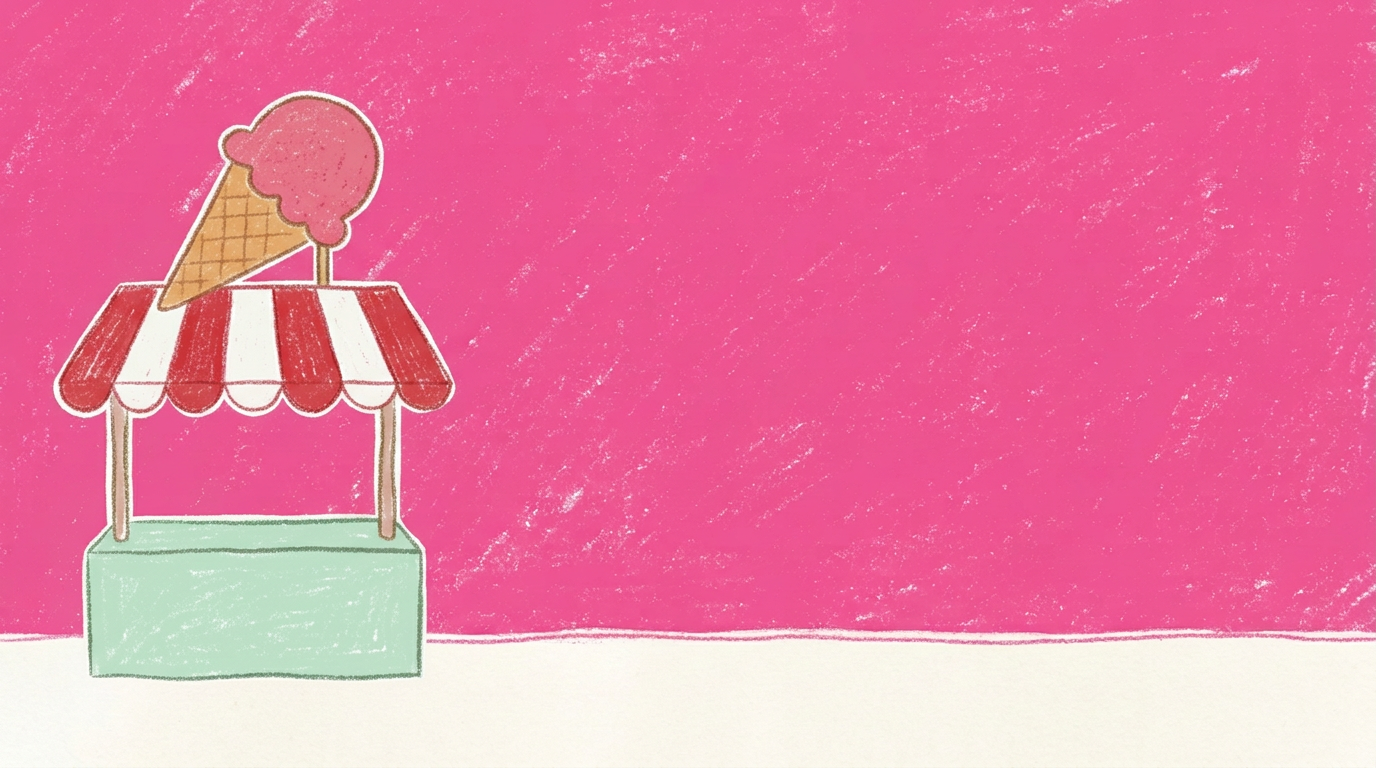
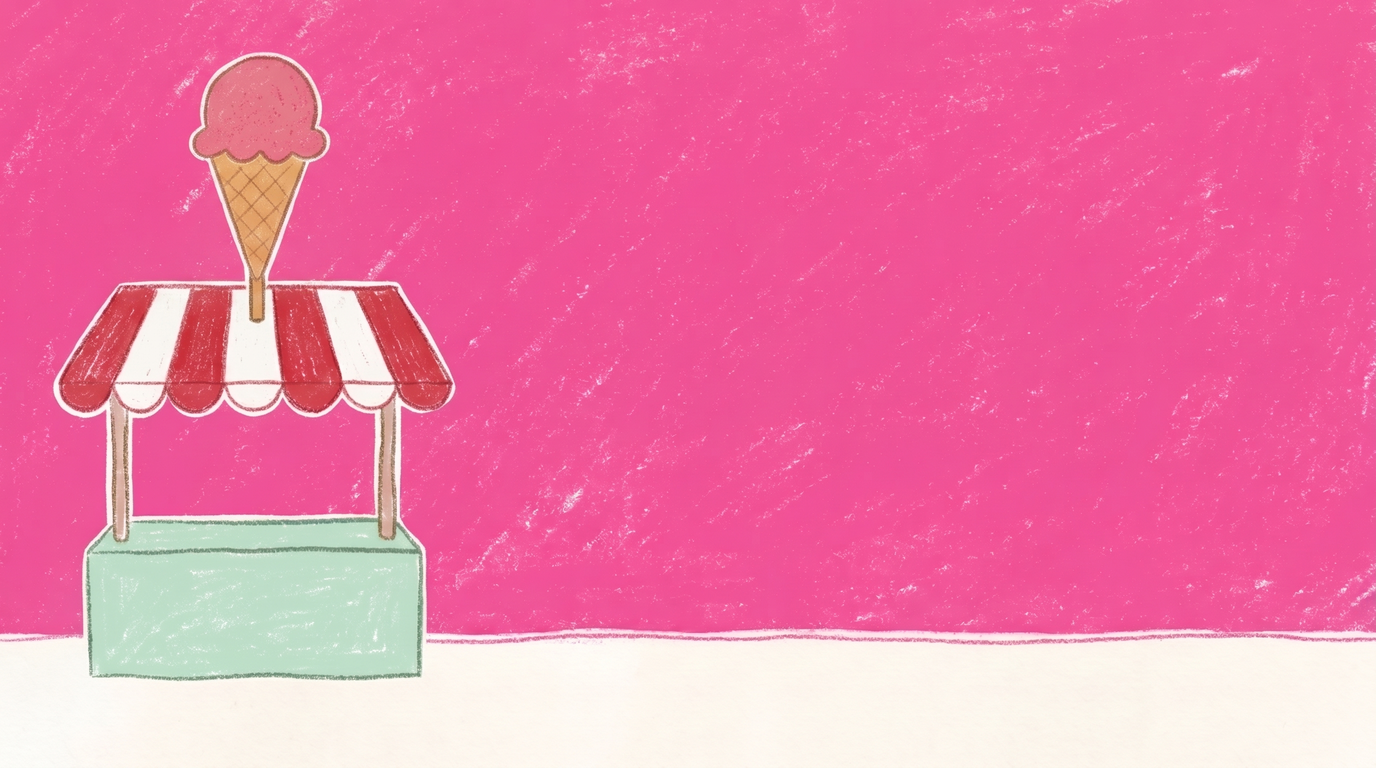
Avsnitt 005: glasskiosken med rak strut, en Mille vid kiosken, större hjärtan i discot, avgaspuffar på vägen
- Ny målning av glasskiosken (Google Flow): struten står rak på en kort stång mitt på markisen, allt annat lika; originalet sparat som glasskiosken-snett-original.png, lagren omgjorda
- Kiosken: musen byter från bilen till egna ben på en bildruta (aldrig två Mille), avgaspuffar när bilen kör in
- Discot: hjärtan på "favoritfärg" 2,5 gånger refrängens storlek, puffar när bilen kommer
- Vägen 1: mjukare gupp, puffar varannat slag, bilen tonas ut under kritsvepet
- Introt: ordet krymper som en enhet; ljudmixen +1,3 dB med limiter (−14 LUFS)
- format/regler.md och CLAUDE.md: molnövergången och kritirisen; rosa-bilen.md: avgasröret och puffarna
- Avsnitt 004: ändringar i korscen-1 och sammansättningen

diff --git a/avsnitt/004-bussen-badar/scener/korscen-1/index.html b/avsnitt/004-bussen-badar/scener/korscen-1/index.html
@@ -29,8 +29,8 @@ const { BUSS, PLATS } = kor;
 // traktorn och åkern långt bort, högre upp på ängen än bussens tak, så att den aldrig kör in bakom bussen
 // början: kritans zoom landar på den tomma vägen (vägen står stilla på VAG0, samma i kritan-ritar). Bussen rullar in från vänster
 // och stannar i mitten med en studs, rakt klipp till närbild på ansiktet (tittar på oss, tut, tut, blinkar med ena ögat),
-// rakt klipp tillbaka, och bussen kör iväg på "Solen skiner". Satt-ihop.sh klipper bort takterna mellan närbilden och helbilden
-// (scentid 5,97–10,80, två takter som upprepas i mellanspelet, Sanna 2026-11-04: "intro is a bit long").
+// rakt klipp tillbaka, bussen dansar på stället i två takter (DANS_*) och kör iväg på "Solen skiner".
+// (Takterna var bortklippta i satt-ihop.sh, men då hackade musiken; nu fyller dansen dem, Sanna 2026-11-05.)
 const IN_X = -620, NARBILD = [1210, 760, 3];   // NARBILD för 003:s bussstorlek (kor.narbild)
 // björnen Bulle (statist) på bortre vägkanten i vers 1: glider in med vägen, vinkar på "vi ska åka och bada!", bussen tutar tillbaka
 const BJORN = { x: 1570, y: 825, h: 270 };      // x när bussen tutar (en bit framför nosen, fritt från tutstrecken)
@@ -56,7 +56,10 @@ async function tider() {
   return { ...kor.stoppTider(M, 0, S), sang, DURATION: sang[1] - sang[0],
     VERS: S(vers), IN: [b(0), b(3)], NARA0: [b(4), b(9)],             // rullar in, närbild till klippet (b(9) = scentid 5,97)
     TITTA: b(4) + 0.1, TUT0: [b(6), b(7)],                             // tittar på oss, blinkar, "tut, tut", blinkar igen
-    VINK: [b(8)],                                                     // blinkar med främre ögat åt oss en gång i närbilden, efter tutet (bara här, sparsamt)
+    // de två takterna efter närbilden (förut bortklippta, nu med musiken kvar, Sanna 2026-11-05): bussen dansar på stället,
+    // fyra hopp i första takten och gungar från sida till sida i den andra, solen dansar med
+    DANS_HOPP: [b(10), b(11), b(12), b(13)], DANS_GUNG: [b(14), b(17)],
+    VINK: [b(8)],                                                    // blinkar med främre ögat åt oss en gång i närbilden, efter tutet (bara här, sparsamt)
     BJORN_VINK: [b(26), b(27)], TUT_BJORN: b(27),                    // "vi ska åka och bada!": två vink, bussen tutar tillbaka på det andra
                                                                       // (vägen går fort: björnen hinner bara en halv bild innan han är vid nosen)
     FIA: [S(vers) + 9.4, S(vers) + 14.6],                             // fjärilen följer med bussen en stund i vers 1, när björnen glidit ut
@@ -127,9 +130,15 @@ async function bygg() {
 // början: bussen rullar in och saktar in till mitten (hjulen snurrar med), studsar till när den stannar, lutar bakåt när den kör iväg
 function korIn(t) {
   if (t >= T.VERS + 1.2) return null;
-  const u = del(...T.IN, t), x = lerp(IN_X, BUSS.x, 1 - (1 - u) ** 2), h = hopp(t, T.IN[1], T.IN[1] + 0.25, 10, 0.06, 0.14);
-  return { x, dist: t < T.VERS ? d(0) + x - BUSS.x : d(t), f: t < T.VERS ? 2 * (1 - u) * (u > 0) : v(t) / kor.V, lyft: -h.y, sx: h.sx, sy: h.sy,
-    tilt: kit.bussStopp(t, T.IN[1] + 0.2) + kit.bussStart(t, T.VERS),
+  const u = del(...T.IN, t), x = lerp(IN_X, BUSS.x, 1 - (1 - u) ** 2);
+  let lyft = 0, sx = 1, sy = 1;
+  for (const [a, h0] of [[T.IN[1], 10], ...T.DANS_HOPP.map(p => [p, 18])]) {
+    const h = hopp(t, a, a + 0.3, h0, 0.06, 0.14); lyft += h.y; sx *= h.sx; sy *= h.sy;
+  }
+  const [g0, g1] = T.DANS_GUNG, gung = 5 * Math.sin(Math.PI * (t - g0) / BEAT) * mjuk(del(g0 - 0.2, g0 + 0.2, t)) * mjuk(del(g1, g1 - 0.3, t));
+  return { x, dist: t < T.VERS ? d(0) + x - BUSS.x : d(t), f: t < T.VERS ? 2 * (1 - u) * (u > 0) : v(t) / kor.V, lyft: -lyft, sx, sy,
+    ogon: T.DANS_HOPP.some(p => t > p - 0.05 && t < p + 0.35) ? 'happy' : null,
+    tilt: kit.bussStopp(t, T.IN[1] + 0.2) + kit.bussStart(t, T.VERS) + (t > g0 - 0.2 && t < g1 ? gung : 0),
     titt: lerp(0.8, -0.2, mjuk(del(T.TITTA, T.TITTA + 0.3, t)) * (1 - mjuk(del(T.NARA0[1] - 0.5, T.NARA0[1] - 0.2, t)))) };
 }
 
@@ -202,7 +211,8 @@ function rendBulle(t, dist) {
 function render(t) {
   const dist = d(t), f = Math.min(1, v(t) / kor.V);
   vag.rulla(dist);
-  kor.solDans(t + T.sang[0], mjuk(del(0, 2, t)));   // solen dansar i sångtid; stilla i första rutan (klippet från kritan-ritar)
+  // solen dansar i sångtid; stilla i första rutan (klippet från kritan-ritar), som i kritan-ritar medan bussen dansar
+  kor.solDans(t + T.sang[0], mjuk(del(0, 2, t)) * (1 + 1.5 * mjuk(del(T.DANS_HOPP[0] - 0.5, T.DANS_HOPP[0], t)) * mjuk(del(T.VERS + 0.5, T.VERS, t))));
   trad.pa(1500 + d(T.TRAD) - dist);
   kant.forEach(k => k.s.pa(1500 + d(k.tid) - dist));
   const g = guppa(t, dist);

diff --git a/avsnitt/005-rosa-bilen/scener/kiosken/index.html b/avsnitt/005-rosa-bilen/scener/kiosken/index.html
@@ -49,6 +49,7 @@ const HOPP_11D = [1.0, 1.2, 1.4].map(x => d0 + x);             // glassarna hopp
 const TAR = c0 + 1.0;                                          // musen tar glassen (pling); tassarna möts en halv sekund före
 // Musen kliver ur bilen när den stannat (Sanna: "runt 2:01") och hoppar in igen på andra "hurra", så att discot börjar med henne i bilen
 const UT = { stopp: 1.5, upp: 1.95, ner: 2.65 }, HEM = { upp: DURATION - 0.95, ner: DURATION - 0.35 };
+const PUFF = [K['10'][0] + 0.25, UT.stopp - 0.15];             // avgaspuffar medan bilen kör in: på brum och när den stannar (två slag isär)
 const SATE = [TOM_X + (523 - 512.5) * BIL_S + (533.5 - 512) * MUS_H / 820, GK + (545 - 850) * BIL_S];   // musens fötter i bilen (hennes (512, 926) på bilens (523, 545))
 const CAM_SLUT = [700, 470, 1.2];                              // kameran drar sig ut så att bilen syns när hon hoppar in
 
@@ -194,8 +195,9 @@ function render(t) {
   glassar.forEach(g => g.s.set(g.x, STRUT_Y, STRUT_H, g.rot, ['11d', '11e'].includes(s)));
   fri.set(0, 0, 1, 0, false); fallKula.set(0, 0, 1, 0, false); gKula.forEach(g => g.set(0, 0, 1, 0, false));
   klick.set(0, 0, 1, 0, false); egenGlass(null, [0, 0]); armFram.style.display = 'none';
-  // musen: i bilen före UT och efter HEM, på egna ben däremellan (bilen.musen, som i refrang.glassberg); bytet tonas över på 0,12 s
-  const ute = mjuk(del(UT.upp - 0.04, UT.upp + 0.08, t)) * (1 - mjuk(del(HEM.ner - 0.08, HEM.ner + 0.04, t)));
+  // musen: i bilen före UT och efter HEM, på egna ben däremellan (bilen.musen, som i refrang.glassberg); bytet sker på en bildruta
+  // där båda står likadant (samma plats, armarna uppe, inget huk), aldrig två möss eller genomskinliga
+  const ute = t >= UT.upp && t < HEM.ner ? 1 : 0;
   const bilX = lerp(-330, TOM_X, 1 - Math.pow(1 - del(K['10'][0] + 0.2, UT.stopp, t), 1.6));
   tom.pose({ x: TOM_X, y: GK, h: BIL_H, vit: true, synlig: ute > 0 });
   mus.pose({ synlig: false }); skugga.style.display = 'none'; framMus.setAttribute('opacity', ute);
@@ -212,7 +214,7 @@ function render(t) {
     const bob = t < stopp ? kit.bussMotor(t) * 3 : 0;
     // musen släpper ratten och sträcker upp armarna, hukar, och hoppar ur (boing) och landar vid disken (duns)
     const armar = mjuk(del(stopp + 0.1, stopp + 0.3, t)), huk = Math.sin(Math.PI * del(stopp + 0.2, UT.upp, t));
-    bp = { y: GK + bob, tilt, dist: bilX + 330, humor: armar > 0 ? 'skrattar' : 'glad', m: 0.5, titt: 1, blink: kit.blink(t, [a0 + 1.1]),
+    bp = { y: GK + bob, tilt, dist: bilX + 330, humor: armar > 0 ? 'skrattar' : 'glad', m: 0.6, titt: 1, blink: kit.blink(t, [a0 + 1.1]),
       ...(armar > 0 ? { arm_r: lerp(40, 120, armar), arm_l: lerp(40, 120, armar), lyft: 14 * huk } : {}) };
     if (t >= UT.upp - 0.04) {
       const h = hoppa(t, SATE, [MUS_DISK_X, KIOSK_FOT], UT.upp, UT.ner);
@@ -380,7 +382,7 @@ function render(t) {
         mx = h.x; my = h.y;
         mp = { ...mp, sx: 1, sy: 1, dy: 0, ben: [25 * h.luft, 25 * h.luft] };
       }
-      bp = { humor: 'skrattar', m: 0.8, titt: 0.6, tittY: -0.4, arm_r: 145, arm_l: 145, lyft: 14 * Math.sin(Math.PI * del(HEM.ner - 0.05, HEM.ner + 0.3, t)) };
+      bp = { humor: 'skrattar', m: 0.8, titt: 0.6, tittY: -0.4, arm_r: 145, arm_l: 145, lyft: 14 * Math.sin(Math.PI * del(HEM.ner, HEM.ner + 0.35, t)) };
       const kq = kit.inUt(del(HEM.upp - 0.3, HEM.ner, t));
       kit.kamera(...TVA.map((v, i) => lerp(v, CAM_SLUT[i], kq)));
     }
@@ -396,7 +398,8 @@ function render(t) {
   }
   const vidBilen = mx < lerp(SATE[0], MUS_DISK_X, 0.3);
   for (const e of [mus.g, framMus]) L.figurer.insertBefore(e, vidBilen ? tom.g : fallKula.g);
-  if (ute < 1) bil.pose({ x: bilX, y: GK, h: BIL_H, opacity: 1 - ute, humor: 'glad', ...bp });
+  if (ute < 1) { bil.pose({ x: bilX, y: GK, h: BIL_H, opacity: 1 - ute, humor: 'glad', ...bp }); bil.puffa(t, PUFF); }
+  if (ute > 0) tom.puffa(t, PUFF);   // puffarna blir kvar när den tomma bilen tar över
   klippStrut(mus);
 }
 // ett hopp från [x0, y0] till [x1, y1] mellan upp och ner (fötterna), med landning (squash) efter ner

diff --git a/avsnitt/005-rosa-bilen/scener/discot/index.html b/avsnitt/005-rosa-bilen/scener/discot/index.html
@@ -521,12 +521,28 @@ kit.ljud('pop', START['15e'] + 0.35, { vol: 0.7 });            // flaggan: plopp
 kit.ljud('plopp', START['15e'] + 0.35);
 kit.ljud('jubel', START['15e'] + 0.4, { vol: 0.7, langd: START['16'] - START['15e'] - 0.3 });
 kit.ljud('brum', KOR - 0.1, { vol: 0.7 });
+const PUFF = [KOR, ...slagI(KOR + 2 * BEAT, STANNA).filter((_, i) => i % 2 === 0), STANNA];   // avgaspuffar: på brum, varannat slag medan den rullar, och när den stannar
 TUT.forEach(t => kit.ljud('tuta-tut', t, { vol: 0.8, langd: 0.5 }));
 kit.ljud('swoosh', START['17'], { vol: 0.4 });   // irisen sluter sig; inget ljud när den stängs
 
 // V:et: alla fem gör samma rörelse per rad, sångens (sang.md), så att barnet kan härma en; 14m byter mitt i, på slaget, när "Rosa dans!" upprepas
 const DANS = Object.fromEntries([['14l', 'upp'], ['14m', 'hjarta'], ['14m2', 'sida'], ['15d', 'hjarta']].map(([rad, r]) =>
   [rad, Object.fromEntries(['musen-mille', 'grodan-gurra', 'kaninen-kanel', 'humlan-humle', 'dinon-disa'].map(n => [n, r]))]));
+// små hjärtan som i refrängen (refrang.js rad b): på "favoritfärg" (14m) stiger tio upp ur gruppen, två över varje figur,
+// ett var 0,38 s från mitten och utåt, växelvis åt vänster och höger; 2,5 gånger refrängens storlek (gruppbilden är vid),
+// stiger 150–200 px på 1,6 s så att de kommer över huvudena, vajar och tonar bort
+const HJARTA_ORD = ['musen-mille', 'kaninen-kanel', 'grodan-gurra', 'humlan-humle', 'dinon-disa'];
+const hjartan = Array.from({ length: 10 }, () => { const g = el('g', { ...KRITA_FIN, style: 'display:none' }, L.figurer);
+  el('path', { d: 'M0 42 C -60 0 -62 -42 -32 -48 C -12 -52 0 -36 0 -26 C 0 -36 12 -52 32 -48 C 62 -42 60 0 0 42z', fill: '#F06EAA', stroke: '#fff', 'stroke-width': 9 }, g); return g; });
+function hjartRegn(t) {
+  hjartan.forEach((h, i) => {
+    const [x, vh, vf] = V[HJARTA_ORD[i % 5]], a = START['14m'] + 0.1 + i * 0.38, u = del(a, a + 1.6, t);
+    h.style.display = u > 0 && u < 1 ? '' : 'none';
+    if (u <= 0 || u >= 1) return;
+    const sida = i % 2 ? 1 : -1, sc = 0.75 * mjuk(u * 5) * (1 - mjuk(del(0.7, 1, u))), ut = 20 + 25 * ((i * 5) % 3);
+    h.setAttribute('transform', `translate(${x + sida * ut * Math.sqrt(u) + 12 * Math.sin(u * 6 + i * 2)} ${(vf - 0.92 * vh) * H - (150 + 25 * (i % 3)) * u}) rotate(${sida * 12 * Math.sin(u * 5)}) scale(${sc})`);
+  });
+}
 const MITT = slag((START['14m'] + START['15a']) / 2) + (Math.floor(fas(slag((START['14m'] + START['15a']) / 2))) % 2 ? BEAT : 0);   // på ett jämnt slag
 
 // ---------- kritsvepen (formatet: inga raka klipp) ----------
@@ -648,7 +664,9 @@ function render(t) {
     const u = t >= STANNA ? slag_upp(t - STANNA, 0) : { sx: 1, sy: 1 };   // trycks ihop när den stannar, som en dekal som slås upp
     bil.pose({ x, y: BIL.g + 2.5 * tut.lyft + (kq > 0 && kq < 1 ? kit.bussMotor(t) * 2 : 0), h: BIL.h, sx: (1 + 2 * (tut.sx - 1)) * u.sx, sy: (1 + 2 * (tut.sy - 1)) * u.sy, tilt: luta, dist: x - BIL.x, vit: false,
       humor: tut.ogon ? 'skrattar' : 'glad', m: tut.mun, arm_r: vink, arm_l: 'kant', blink: blinkar(t, 0.5) });
+    bil.puffa(t, PUFF);
   }
+  hjartRegn(t);
   svep(t);
 
   // 17: kritirisen som i Lilla Kvack: en vinglig cirkel med nio bucklor som vrider sig sakta, runt musens ansikte; svart utanför,

diff --git a/avsnitt/005-rosa-bilen/intro/index.html b/avsnitt/005-rosa-bilen/intro/index.html
@@ -283,10 +283,12 @@ function render(t) {
   satt($('tejp'), [0, -331], pop(del([T.tejp, T.tejp + 0.35], t)) * ut(0.6), -6 * (1 - del([T.tejp, T.tejp + 0.35], t)));
 
   // bokstäverna poppar fast som klistermärken, en per sextondel; vrids och skalas runt mitten på x-höjden
+  // utgången: hela ordet krymper ihop mot sin mitt (inte varje bokstav för sig, då gled de isär en bild)
+  const k = ut(0.4);   // ordets mitt är x = 0 i #ordmarke; i bokstavens egen ruta ligger den på -b.x
   for (const b of bokst) {
-    const p = klister(t - b.t0, 1.15, b.vrid), [mx, my] = b.mitt, k = ut(0.4);
-    b.pop.style.display = t > b.t0 ? '' : 'none';
-    b.pop.setAttribute('transform', `translate(${mx} ${(my + p.dy).toFixed(2)}) rotate(${p.rot.toFixed(2)}) scale(${(p.s * p.sx * k).toFixed(4)} ${(p.s * p.sy * k).toFixed(4)}) translate(${-mx} ${-my})`);
+    const p = klister(t - b.t0, 1.15, b.vrid), [mx, my] = b.mitt;
+    b.pop.style.display = t > b.t0 && k > 0.001 ? '' : 'none';
+    b.pop.setAttribute('transform', `translate(${-b.x} -60) scale(${k.toFixed(4)}) translate(${b.x} 60) translate(${mx} ${(my + p.dy).toFixed(2)}) rotate(${p.rot.toFixed(2)}) scale(${(p.s * p.sx).toFixed(4)} ${(p.s * p.sy).toFixed(4)}) translate(${-mx} ${-my})`);
   }
   // titelraderna: samma pop men lugnare (mindre översväng), efter ordmärket
   for (const c of AVSNITT) poppa(c.inre, t - c.start, c.mitt, 1.07);

diff --git a/avsnitt/005-rosa-bilen/scener/vagen-1/index.html b/avsnitt/005-rosa-bilen/scener/vagen-1/index.html
@@ -67,7 +67,7 @@ async function bygg() {
   nara = el('g', {}, saker);   // framför vägkanten
   const nb = kit.vagsak(B_, nara, NARA_BUSKE.y, NARA_BUSKE.h);
   kant.push({ tid: T.NARA + (BIL_X + 450 - W) / V, s: nb });
-  kit.lager.overst.setAttribute('transform', 'scale(0.8)');   // kritsvep.js ritar i 1920 × 1080; lite större än W / 1920, annars når klottret inte högerkanten
+  kit.lager.overst.setAttribute('transform', 'translate(-130 -90) scale(0.95)');   // kritsvep.js ritar i 1920 × 1080; större än W / 1920 och centrerad, så att strecken vänder utanför bilden (annars skymtar hjulen i gliporna)
   bil = bilen.ny(L.figurer, { kontur: true });
   fia = await kit.figur('fjarilen-fia', { h: 100 });
   r = await refrang.ny(M, '05', S);
@@ -176,7 +176,8 @@ function render(t) {
   } else if (t < T.K) {   // 03b: tassen på ratten, tittar framåt, lutar huvudet i takt och blinkar
     mus = blunda(t, { humor: 'glad', titt: mjuk(del(T.B + 0.2, T.B + 0.5, t)) * 0.9, rot: 4 * Math.sin(Math.PI * (t - T.B) / BEAT) * mjuk(del(T.B, T.B + 0.4, t)) });
   } else mus = musKor(t, fiaXY);
-  bil.pose(korPose(t, mus));
+  // under kritsvepet tonas bilen bort, så att gliporna mellan strecken visar ljus väg och gräs, inte svarta hjul (smulor)
+  bil.pose({ ...korPose(t, mus), opacity: 1 - mjuk(del(T.SVEP[0] + 0.15, T.R - 0.3, t)) });
   bil.puffa(t, T.PUFF);
 
   kit.kamera(...kam(t));

diff --git a/avsnitt/005-rosa-bilen/scener/kiosken/README.md b/avsnitt/005-rosa-bilen/scener/kiosken/README.md
@@ -46,10 +46,10 @@ Replikerna i luckan ("Hej, grodan!", "Kväk! Vilken glass vill du ha?", "Rosa, t
 - 10 och 11 är en enda bild, utan kritsvep (bild 10 är bara 0,6 s); molnen över skarven lägger `film/satt-ihop.sh`.
 
 ## Efter granskning 2 (2026-11-05)
-- **Musen kliver ur bilen** när den stannat (1,95 s, Sannas "runt 2:01") och står vid disken hela luckan. Hon får glassen där, och hoppar in i bilen igen på andra "hurra", så att discot börjar med henne i bilen. Hon är `bilen.musen` (samma mus på egna ben som i `refrang.glassberg`), och bytet mot musen i bilen tonas över på 0,12 s åt båda hållen. Bilen stannar vid `TOM_X`, så att hjulet inte hamnar under hennes fötter.
+- **Musen kliver ur bilen** när den stannat (1,95 s, Sannas "runt 2:01") och står vid disken hela luckan. Hon får glassen där, och hoppar in i bilen igen på andra "hurra", så att discot börjar med henne i bilen. Hon är `bilen.musen` (samma mus på egna ben som i `refrang.glassberg`), och bytet mot musen i bilen sker på en bildruta där båda står likadant (ingen övertoning, aldrig två möss). Bilen stannar vid `TOM_X`, så att hjulet inte hamnar under hennes fötter.
 - Grodan vinkar (och sträcker på sig) när bilen kör in. 11a slutar i tvåbilden i stället för helbilden.
 - 11b står 0,5 s längre, och klippet till grodans närbild kommer senare.
 - Små ljud i luckan, där replikerna saknar röst: pop när glassarna hoppar, ding när den rosa hoppar, kvak, och kiosk-pling när grodan lutar sig ut.
 - Kulan syns falla i 0,55 s, och plupp landar på smällen (plupp-tagningarna börjar med 0,6–1,6 s tystnad).
-- Den stora struten på taket står still. Den lutar för att den är ritad så i `kiosk-ra.png`, och kulan är avskuren av bildkanten tills kameran glider upp. Att räta upp den kräver en ny platta.
+- Den stora struten på taket står nu rakt (ny målning av `glasskiosken.png`, plattorna gjorda om med `gor-lager.py`); `kiosk-topp` passar mot markisen i 11a.
 - Inga rörelse- eller ljudstreck (Sanna, 2026-11-05: de små strecken gjorde inget för bilden). Kulan som faller är kvar.

diff --git a/format/regler.md b/format/regler.md
@@ -59,6 +59,16 @@ Granskat mot förskolepedagogik och Montessori (se fliken Pedagogik i `format/ar
 4. **Delaktighet.** Efter frågan till tittaren: pausa 4–5 s, sedan visar en figur svaret. Bjud in barnet att vinka, hoppa och tuta med, tydligt och flera gånger.
 5. **Vardagssaker.** En vardagshandling och ett "tack" (och "varsågod") i varje avsnitt, till exempel att någon kliver på bussen själv eller tar emot en glass.
 
+## Övergångar och effekter (tillagt efter 005)
+
+Formatets övergångar är zoom in, kritsvep och zoom ut. Sedan 005 får också de här användas:
+
+- **Molnövergång mellan scener.** Mjuka moln i avsnittets färg glider in från sidorna, täcker bilden en kort stund och glider undan. Den används vid skarvarna mellan kodscenerna, inte efter introt. Den läggs på i sammansättningen (`film/moln/`), inte i scenerna.
+- **Kritirisen i slutet** (som i Lilla Kvack). En vinglig cirkel sluts runt figuren, svart utanför. Efter den kommer det vanliga outrot.
+- **Små dekorationer i kod** räknas inte som nya saker när de bara är pynt och ritas i kod med krita och vit kant. Exempel: hjärtan som flyger upp, en blomma vid en buske, vita avgaspuffar. Saker som figurerna använder eller pratar om är fortfarande rekvisita och räknas.
+
+Effektstreck (fartstreck, dunsstreck, strålar) används inte. De såg billiga ut i 005 och togs bort.
+
 ## Checklista innan manus är klart
 
 - [ ] Högst 3 figurer i berättelsen

diff --git a/CLAUDE.md b/CLAUDE.md
@@ -5,7 +5,7 @@ Repot innehåller allt material för YouTube-kanalen *Lilla Kritan*: tecknade cu
 **Lilla Kritan är världen, inte en figur.** Det finns ingen programledare. I ramen ritar en krita utan ansikte och en berättarröst (BERÄTTAREN i manus) pratar till tittaren.
 
 ## Konventioner
-- **Format först:** varje avsnitt följer `format/` – fast intro (logotyp, avsnittsnummer, titel) och outro, max 3 figurer och 2 platser, endast övergångarna zoom in, kritsvep och zoom ut. Föreslå aldrig manus som bryter mot `format/regler.md` utan att säga det.
+- **Format först:** varje avsnitt följer `format/` – fast intro (logotyp, avsnittsnummer, titel) och outro, max 3 figurer och 2 platser, övergångarna zoom in, kritsvep och zoom ut (plus molnövergången och kritirisen, se `format/regler.md`). Föreslå aldrig manus som bryter mot `format/regler.md` utan att säga det.
 - **Rekvisita** skapas tillsammans med användaren. Lägg inte till saker i `rekvisita/` på eget initiativ.
 - **Assets** (bilder, ljud) levererar användaren. Skapa inte bilder utan att bli ombedd.
 - **Språk:** allt innehåll (manus, sånger, dokumentation) skrivs på svenska. Bildprompter (```` ```prompt ````- och ```` ```delar ````-block) skrivs på engelska.

diff --git a/avsnitt/005-rosa-bilen/scener/discot/README.md b/avsnitt/005-rosa-bilen/scener/discot/README.md
@@ -131,3 +131,5 @@ först, som i `rekvisita/*.md`):
 ```prompt
 A single big flower facing the viewer, five round puffy petals in bright pink (#F06EAA) with a lighter pink centre on each petal, a round sunshine-yellow middle, a short thick green stem with one rounded leaf on the side, simple crayon drawing with grainy wax texture and a thin chalky light edge, no dark outline, centred, on a plain white background.
 ```
+
+**Hjärtan och puffar:** på "favoritfärg" (14m) stiger tio rosa hjärtan upp ur gruppen som i refrängen men 2,5 gånger större och högre upp, över huvudena (två över varje figur, ett var 0,38 s från mitten och utåt). När bilen rullar in (`KOR`–`STANNA`) puffar avgasröret med `bil.puffa`: på brum, varannat slag och när den stannar.

diff --git a/rekvisita/rosa-bilen.md b/rekvisita/rosa-bilen.md
@@ -4,6 +4,8 @@ Musens bil, öppen utan tak. En enda rosa klump med en grop där föraren sitter
 
 Bilen är delad i kaross, kant, ratt, framhjul och bakhjul (se `assets/rekvisita/rosa-bilen/rosa-bilen-rigg.json`). Hjulen snurrar i kod. Kanten ligger framför föraren, så att hon sitter i bilen, och ratten sitter tätt bakom vindrutan.
 
+Avgasröret är ritat i kod (`avsnitt/005-rosa-bilen/scener/bilen.js`), inte i bilden: ett kort grått kritrör längst bak, under karossen. Ur det kommer vita kritpuffar när bilen brummar och medan den kör (`bil.puffa(t, tider)`). Bilen har ingen ratt i 005 (se storyboarden).
+
 Används i: 005 Rosa bilen.
 
 ```prompt
